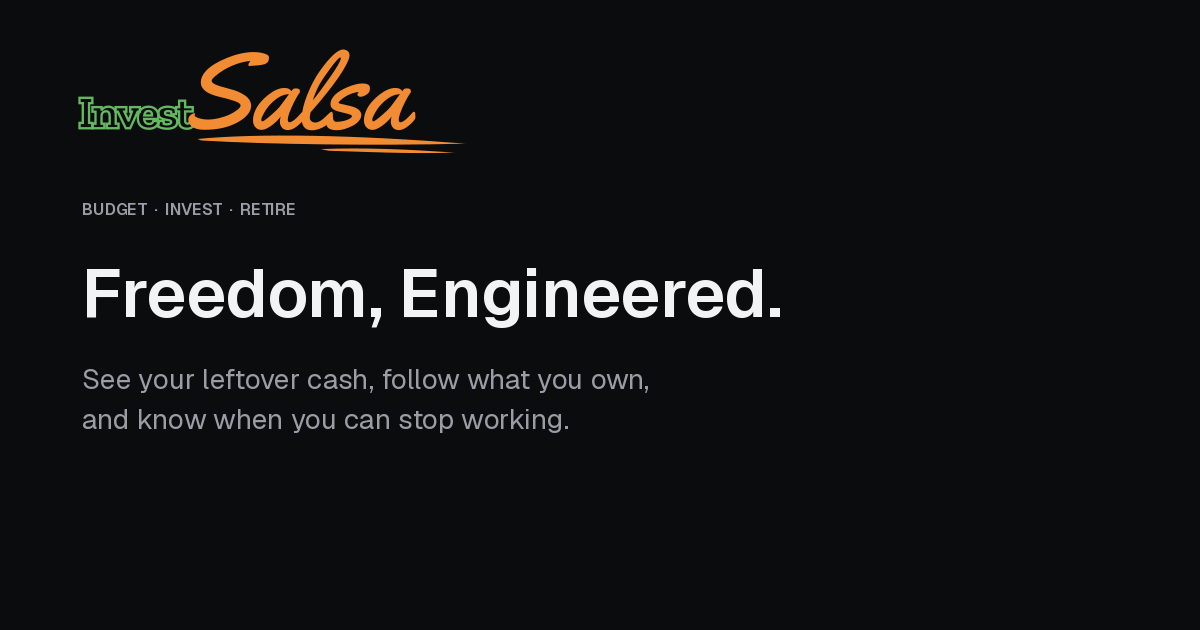
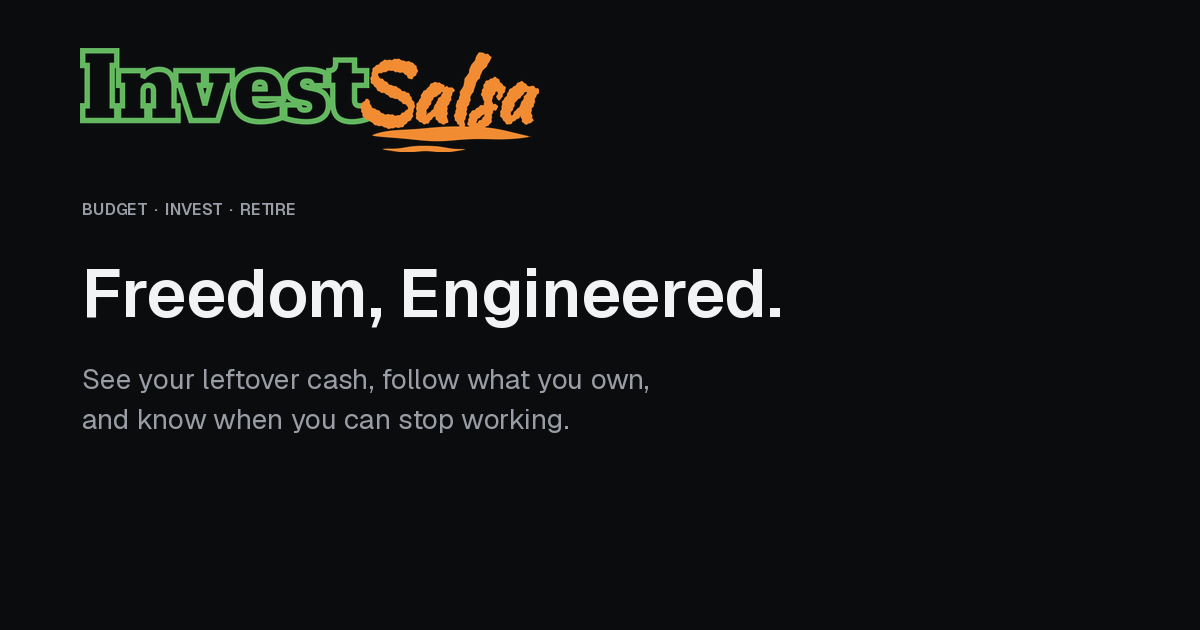
Match the wordmark to the approved X2b20 lockup.
Scale Invest so its cap is about three quarters of Salsa, draw it as a heavier hollow slab, and set Salsa in a thicker Kaushan brush with a shorter underline. Header logos stay readable on desktop and mobile. The S favicon and OG copy are unchanged.

Changed region(s): [[0.0617, 0.0603, 0.4625, 0.2413]]

diff --git a/src/components/layout/brand-logo.tsx b/src/components/layout/brand-logo.tsx
@@ -58,12 +58,12 @@ export function BrandWordmark({
     <img
       src={BRAND.wordmark}
       alt="InvestSalsa"
-      width={858}
-      height={252}
+      width={417}
+      height={100}
       decoding="async"
       fetchPriority={priority ? "high" : "auto"}
       className={cn(
-        "brand-wordmark-svg h-8 w-auto min-w-0 max-w-full object-contain sm:h-10",
+        "brand-wordmark-svg h-9 w-auto shrink-0 object-contain md:h-11",
         className,
       )}
     />
@@ -94,7 +94,7 @@ export function BrandLogo({
     case "hero":
       content = (
         <div className={cn("flex flex-col items-start gap-2", className)}>
-          <BrandWordmark className="h-16 max-w-none sm:h-20" priority={priority} />
+          <BrandWordmark className="h-16 max-w-none sm:h-20 md:h-20" priority={priority} />
           <BrandTagline className="text-sm" />
         </div>
       );
@@ -111,7 +111,7 @@ export function BrandLogo({
 
   if (asLink) {
     return (
-      <MarketingHomeLink className="inline-flex min-w-0 shrink items-center transition-opacity duration-200 hover:opacity-80">
+      <MarketingHomeLink className="inline-flex shrink-0 items-center transition-opacity duration-200 hover:opacity-80">
         {content}
       </MarketingHomeLink>
     );

diff --git a/src/components/layout/public-chrome.tsx b/src/components/layout/public-chrome.tsx
@@ -26,7 +26,7 @@ function PublicHeader({ innerClassName }: { innerClassName?: string }) {
     <header className="portal-header sticky top-0 z-20">
       <div
         className={cn(
-          "mx-auto flex h-14 w-full items-center justify-between gap-2 px-4 sm:h-16 sm:px-6",
+          "mx-auto flex min-h-14 w-full flex-wrap items-center justify-between gap-x-3 gap-y-2 px-4 py-2 sm:px-6 md:h-16 md:flex-nowrap md:py-0",
           innerClassName,
         )}
       >

diff --git a/src/components/layout/app-shell.tsx b/src/components/layout/app-shell.tsx
@@ -21,7 +21,7 @@ import {
 function AppShellHeader() {
   return (
     <header className="portal-header portal-header--app sticky top-0 z-20 flex h-14 shrink-0 items-center gap-3 px-4 sm:px-5 lg:px-7">
-      <BrandHomeLink className="flex min-w-0 shrink items-center">
+      <BrandHomeLink className="flex shrink-0 items-center">
         <BrandLogo variant="sidebar" priority />
       </BrandHomeLink>
       <SignedInHeaderNav />

diff --git a/src/components/auth/auth-page-shell.tsx b/src/components/auth/auth-page-shell.tsx
@@ -4,7 +4,7 @@ import { PublicFooter, PublicHeader } from "@/components/layout/public-chrome";
 function AuthPanelMark() {
   return (
     <BrandWordmark
-      className="h-14 w-auto max-w-[18rem] sm:h-[4.5rem]"
+      className="h-14 w-auto max-w-[18rem] sm:h-[4.5rem] md:h-[4.5rem]"
       priority
     />
   );
